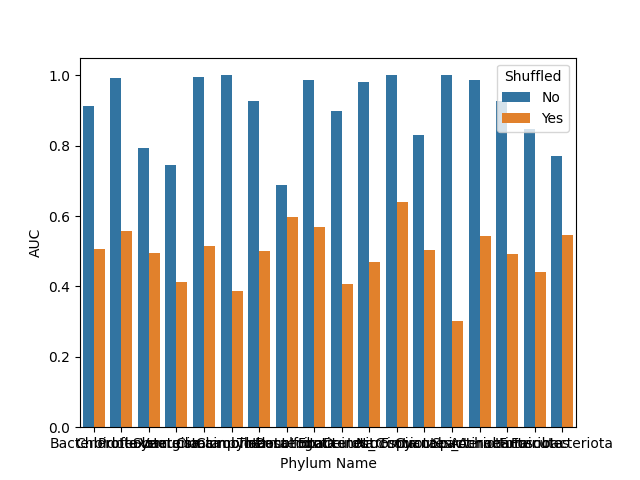
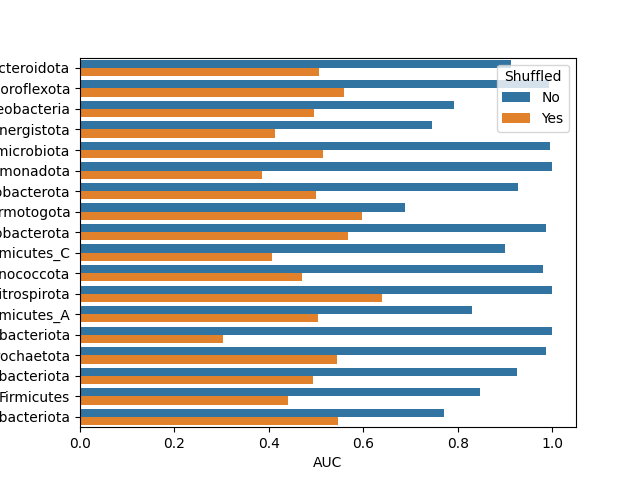
updating figures

diff --git a/scripts/performance_plot.py b/scripts/performance_plot.py
@@ -10,6 +10,6 @@ files = [os.path.join(DIR, f) for f in os.listdir(DIR) if os.path.isfile(os.path
 for f in files:
     print(f)
     df = pd.read_csv(f, index_col=0)
-    sns.barplot(data=df, x='Phylum Name', y='AUC', hue='Shuffled', capsize=0.2, orient="v")
+    sns.barplot(data=df, x='AUC', y='Phylum Name', hue='Shuffled', capsize=0.2, orient="h")
     plt.savefig(f.partition('.csv')[0].replace('files', 'figures')+'.png')
     plt.close()
